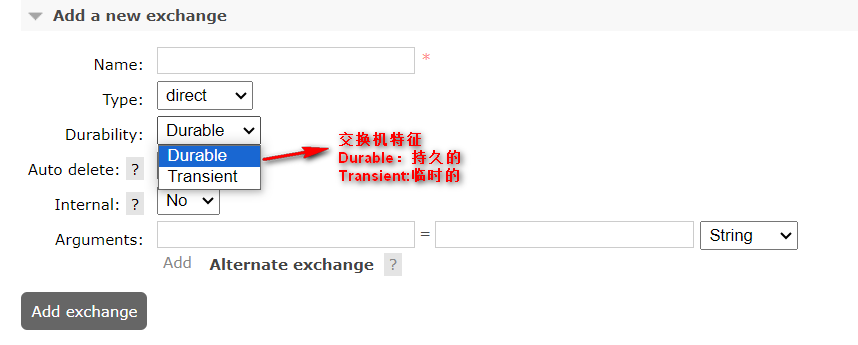
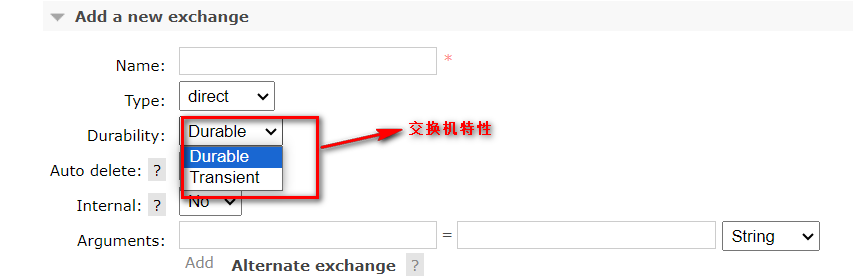
rabbitMQ

diff --git a/_posts/2023-10-03-rabbitMQ管理台手动操作.md b/_posts/2023-10-03-rabbitMQ管理台手动操作.md
@@ -22,7 +22,13 @@ http://localhost:15672/
 
 # 2. Exchanges页面
 ![](/images/myBlog/2023-10-03-rabbitMQ-exchanges.png)
-在这个页面可以新增一个交换机，并指定交换机名称和类型等。   
+在这个页面可以新增一个交换机，并指定交换机名称和类型等。    
+Virtual host： 当前交换机所属的虚拟机，默认是/；   
+Name：指定交换机名称。      
+Type：交换机类型。四种选项取值：Direct,Fanout,Headers,Topic。       
+Features：交换机的功能。可以是以下取值（一个或者组合取值），或者不是：D：持久化；I：Internal，内部交换机，如果是该值的话表示这个交换机不允许client端连接去推送消息，仅用来支持exchange和exchange之间的绑定，即表示内部交换机。   
+Message rate in：消息进入的速率；   
+Message rate out：消息流出的速率。   
 
 我们可以看到，rabbitMQ默认就已经内置了7种交换机。如下图：
 ![](/images/myBlog/2023-10-03-rabbitMQ-exchanges-default.png)
@@ -37,17 +43,25 @@ http://localhost:15672/
 交换机的四种类型：direct，topic，fanout，headers。   
 
 ![](/images/myBlog/2023-10-03-rabbitMQ-exchange-durable.png)
-Durability:；两个选项。可以指定交换机特征，是临时的还是持久的。   
+Durability:两个选项。可以指定交换机特征，是短暂的还是持久的。   
+```youtrack
 Durable：表示该交换机是持久的，当RabbitMQ服务器重启后，该交换机依然存在。   
-Transient：表示该交换机是临时的，当RabbitMQ服务器重启后，该交换机不存在。   
+Transient：表示该交换机是短暂的，当RabbitMQ服务器重启后，该交换机不存在。 
+```  
 
 ![](/images/myBlog/2023-10-03-rabbitMQ-exchange-autodelete.png)
 可以指定该交换机是否自动删除，默认是No。   
-如果选择Yes，则当没有任何队列与该交换机绑定时，该交换机将自动删除。   
+看看官方的解释吧：   
+![](/images/myBlog/2023-10-03-rabbitMQ-exchange-autodelete-trans.png)
+如果选择Yes，则当该交换机至少已经与一个队列或者一个其他的exchange发生了绑定关系之后，然后所有的队列和其他exchange都与其解绑了，该交换机将自动删除。    
+希望上面的解释是清晰的，说白了，如果这个交换机创建后没有任何其他Queue或者Exchange与它绑定过，那表示这个交换机一直没被使用过啊，所以自动删除就不生效的。   
+只有该交换机被Binding过了，然后所有的Queue和Exchange又和它全部Unbinding了，这时候这个交换机才会自动删除，因为它已经使用过了。   
 
 ![](/images/myBlog/2023-10-03-rabbitMQ-exchanges-inter.png)
 可以指定该交换机是否为内部交换机，默认为No。   
-如果选择Yes，则该交换机无法被客户端直接使用，需要通过一个外部交换机与该交换机进行绑定，才能将消息从外部交换机发送到该交换机上来。   
+看看官方解释：   
+![](/images/myBlog/2023-10-03-rabbitMQ-exchanges-inter-trans.png)
+如果选择Yes，则该交换机无法被客户端直接使用去发布消息，需要通过一个外部交换机与该交换机进行绑定，才能将消息从外部交换机发送到该交换机上来。   
 一般都选择No，即创建该交换机就是要让外部客户端直接连接使用的。   
 
 ![](/images/myBlog/2023-10-03-rabbitMQ-exchanges-params.png)
@@ -65,12 +79,29 @@ alternate：备用的。
 
 ![](/images/myBlog/2023-10-03-rabbitMQ-queue-config.png)
 Virtual host:该Queue对应的虚拟机路径，只能是/。   
-Type: 该Queue对应的类型，一般选择Default for virtual host即可。   
+Type: 该Queue对应的类型，一般选择Classic即可。   
+```youtrack
+Default for virtual host：表示该队列只是针对该虚拟机的。
+Classic：表示该队列是主队列。 
+Quorum：表示该队列是从队列。  
+Stream：表示该队列是流队列。
+
+请注意，一般都设置为Classic，不同的type对应的队列的属性是不同的，只有Classic队列会存在Auto delete选项。   
+```     
 
 ![](/images/myBlog/2023-10-03-rabbitMQ-queue-durable.png)   
-Durability:；两个选项。可以指定Queue特征，是临时的还是持久的。     
+Name：为Queue设置名称，必填。  
+Durability:两个选项。可以指定Queue的存储特征，是短暂的还是持久的。     
+```youtrack
 Durable：表示该队列是持久的，当RabbitMQ服务器重启后，该队列依然存在。      
-Transient：表示该队列是临时的，当RabbitMQ服务器重启后，该队列不存在。     
+Transient：表示该队列是暂时的，当RabbitMQ服务器重启后，该队列不存在。 
+```  
+Auto delete：是否自动删除该Queue。默认是No。   
+看看官方解释：   
+![](/images/myBlog/2023-10-03-rabbitMQ-queue-queue-autodelete.png)   
+如果选择Yes，则该Queue在至少被一个Consumer连接过之后，然后所有消费者都与之断开连接了，那么该Queue将被自动删除。   
+翻译一下：和Exchange差不多，该Queue要被至少一个消费者连接过之后，说明该Queue被使用过了，然后所有消费者都与之断开连接，这个Queue才会自动删除。   
+换言之，如果这个Queue从创建之后一直没有被任何消费者连接过，那么这个Queue设置了Auto delete属性，也是不会自动删除的，因为都没用过啊，删除啥呢。    
 
 ![](/images/myBlog/2023-10-03-rabbitMQ-queue-params.png)
 在创建Queue时，可以设置一些参数。   
